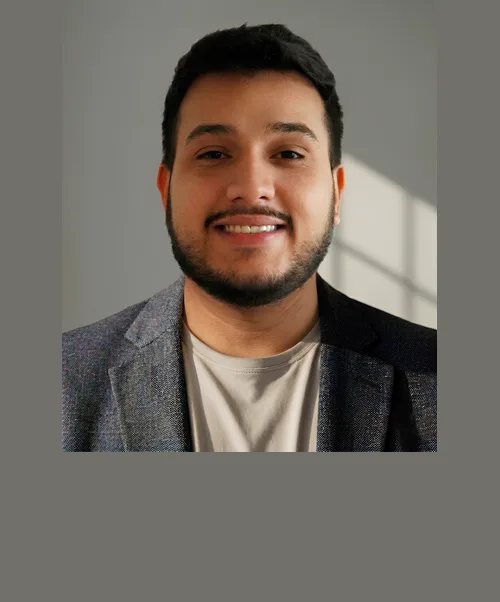
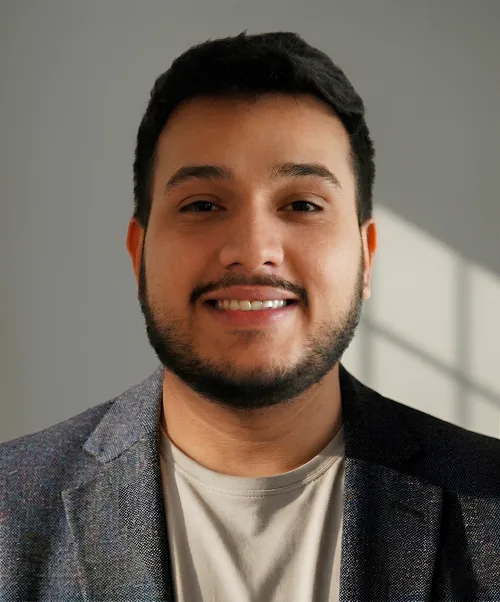
Adjust image framing to prevent boxy appearance
Update the image styling in about.html to use `object-fit: contain` and a matching background color, resolving the visible gray padding artifact around Abhishek Parasher's image.

Replit-Commit-Author: Agent
Replit-Commit-Session-Id: 6c8d8d6f-982c-4641-ab56-3be131918969
Replit-Commit-Checkpoint-Type: full_checkpoint
Replit-Commit-Event-Id: 02a31239-be44-4b68-bd51-9b1e0df3d7a1
Replit-Commit-Screenshot-Url: https://storage.googleapis.com/screenshot-production-us-central1/0d3d7245-e84f-4fd9-a678-fef7aa368e14/6c8d8d6f-982c-4641-ab56-3be131918969/2FXOEgp
Replit-Helium-Checkpoint-Created: true

diff --git a/about.html b/about.html
@@ -209,7 +209,7 @@
             </div>
             <div class="member-slide w-slide">
               <a href="career.html" class="team-member w-inline-block">
-                <div class="aspect-ratio-1-1933 position-relative overflow-hidden border-rounded"><img news-section-load="media" loading="lazy" alt="Abhishek Parasher, Business Intelligence Manager at BlackOrigin Inc." src="images/abhishek-parasher.webp" sizes="(max-width: 960px) 100vw, 960px" srcset="images/abhishek-parasher-500.webp 500w, images/abhishek-parasher.webp 960w" class="media-block" style="object-position: center top;"></div>
+                <div class="aspect-ratio-1-1933 position-relative overflow-hidden border-rounded"><img news-section-load="media" loading="lazy" alt="Abhishek Parasher, Business Intelligence Manager at BlackOrigin Inc." src="images/abhishek-parasher.webp" sizes="(max-width: 960px) 100vw, 960px" srcset="images/abhishek-parasher-500.webp 500w, images/abhishek-parasher.webp 960w" class="media-block" style="object-fit: contain; object-position: center top; background-color: rgb(112,112,105);"></div>
                 <div class="spacing-1-5em"></div>
                 <div class="text-style-paragraph">Abhishek Parasher</div>
                 <div class="text-color-gray-500 text-style-paragraph">Business Intelligence Manager</div>
